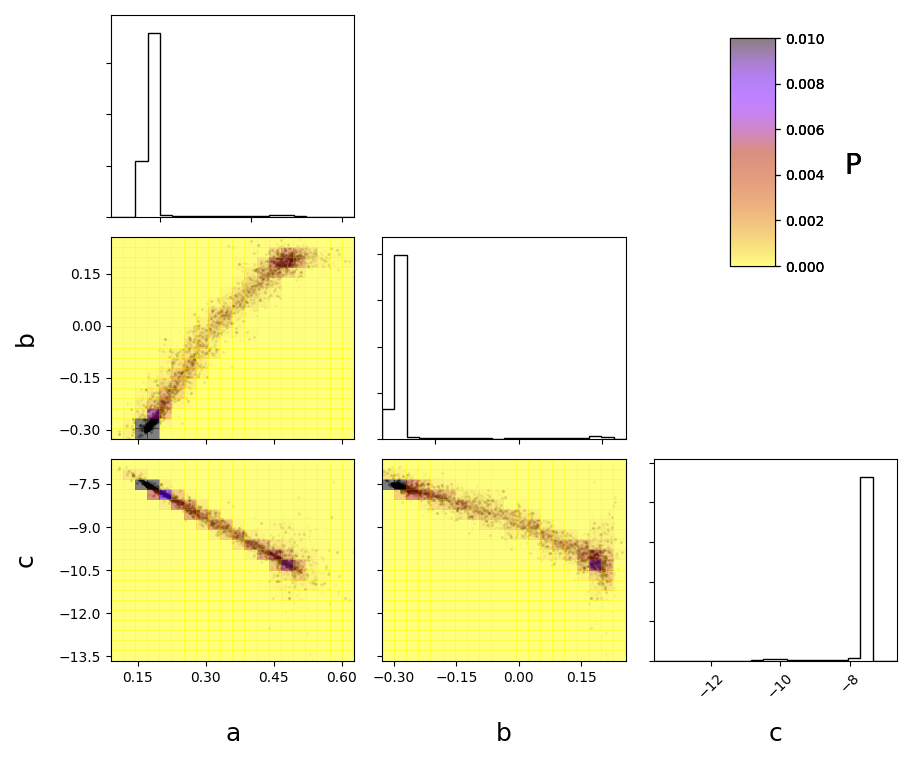
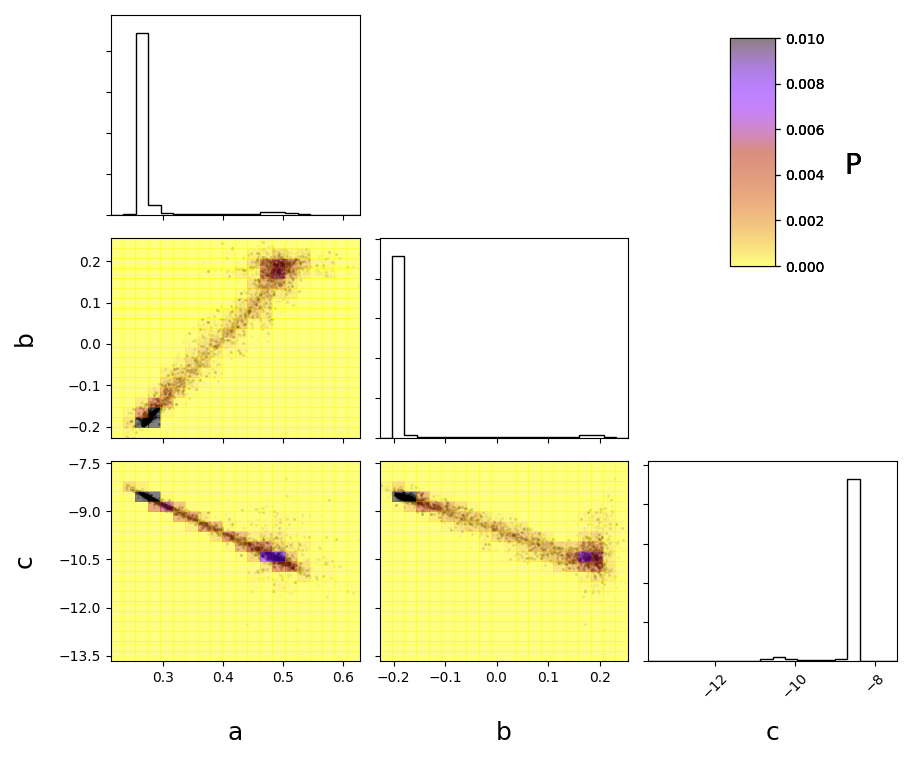
consolidate prior and posterior likelihood calcs

diff --git a/examples/simple_quadratic_MCMC_example.py b/examples/simple_quadratic_MCMC_example.py
@@ -25,7 +25,8 @@ meas = Measurement(y, noise, np.eye(len(x)))
 ancill = AncillaryParameter([x, d], [0.01*np.ones_like(x), 1], [np.eye(len(x)), np.array([1,])],b_iter = 1)
 prior = Prior(["normal"]*3, [{"mu": 0.5, "sigma": 0.3}, 
                         {"mu": 0.1, "sigma": 0.05},
-                        {"mu": 10, "sigma": 3}])
+                        {"mu": 10, "sigma": 3}],
+              prior_correlation="rand")
 
 inputs = RetrievalInput(meas_func, meas, ancill, prior)
 

diff --git a/curepy/utilities/distributions.py b/curepy/utilities/distributions.py
@@ -14,8 +14,8 @@ def ln_uniform(theta, minimum, maximum):
         return -np.inf
     
 def ln_normal(theta, mu, sigma):
-    return - ((theta - mu)**2)/(2*sigma**2)
+    return - 0.5 * ((theta - mu)**2)/(2*sigma**2)
 
 def ln_multi_normal(theta, mu, Sa_inv):
     diff = theta - mu
-    return - diff.T @ Sa_inv @ diff
+    return - 0.5 * diff.T @ Sa_inv @ diff
